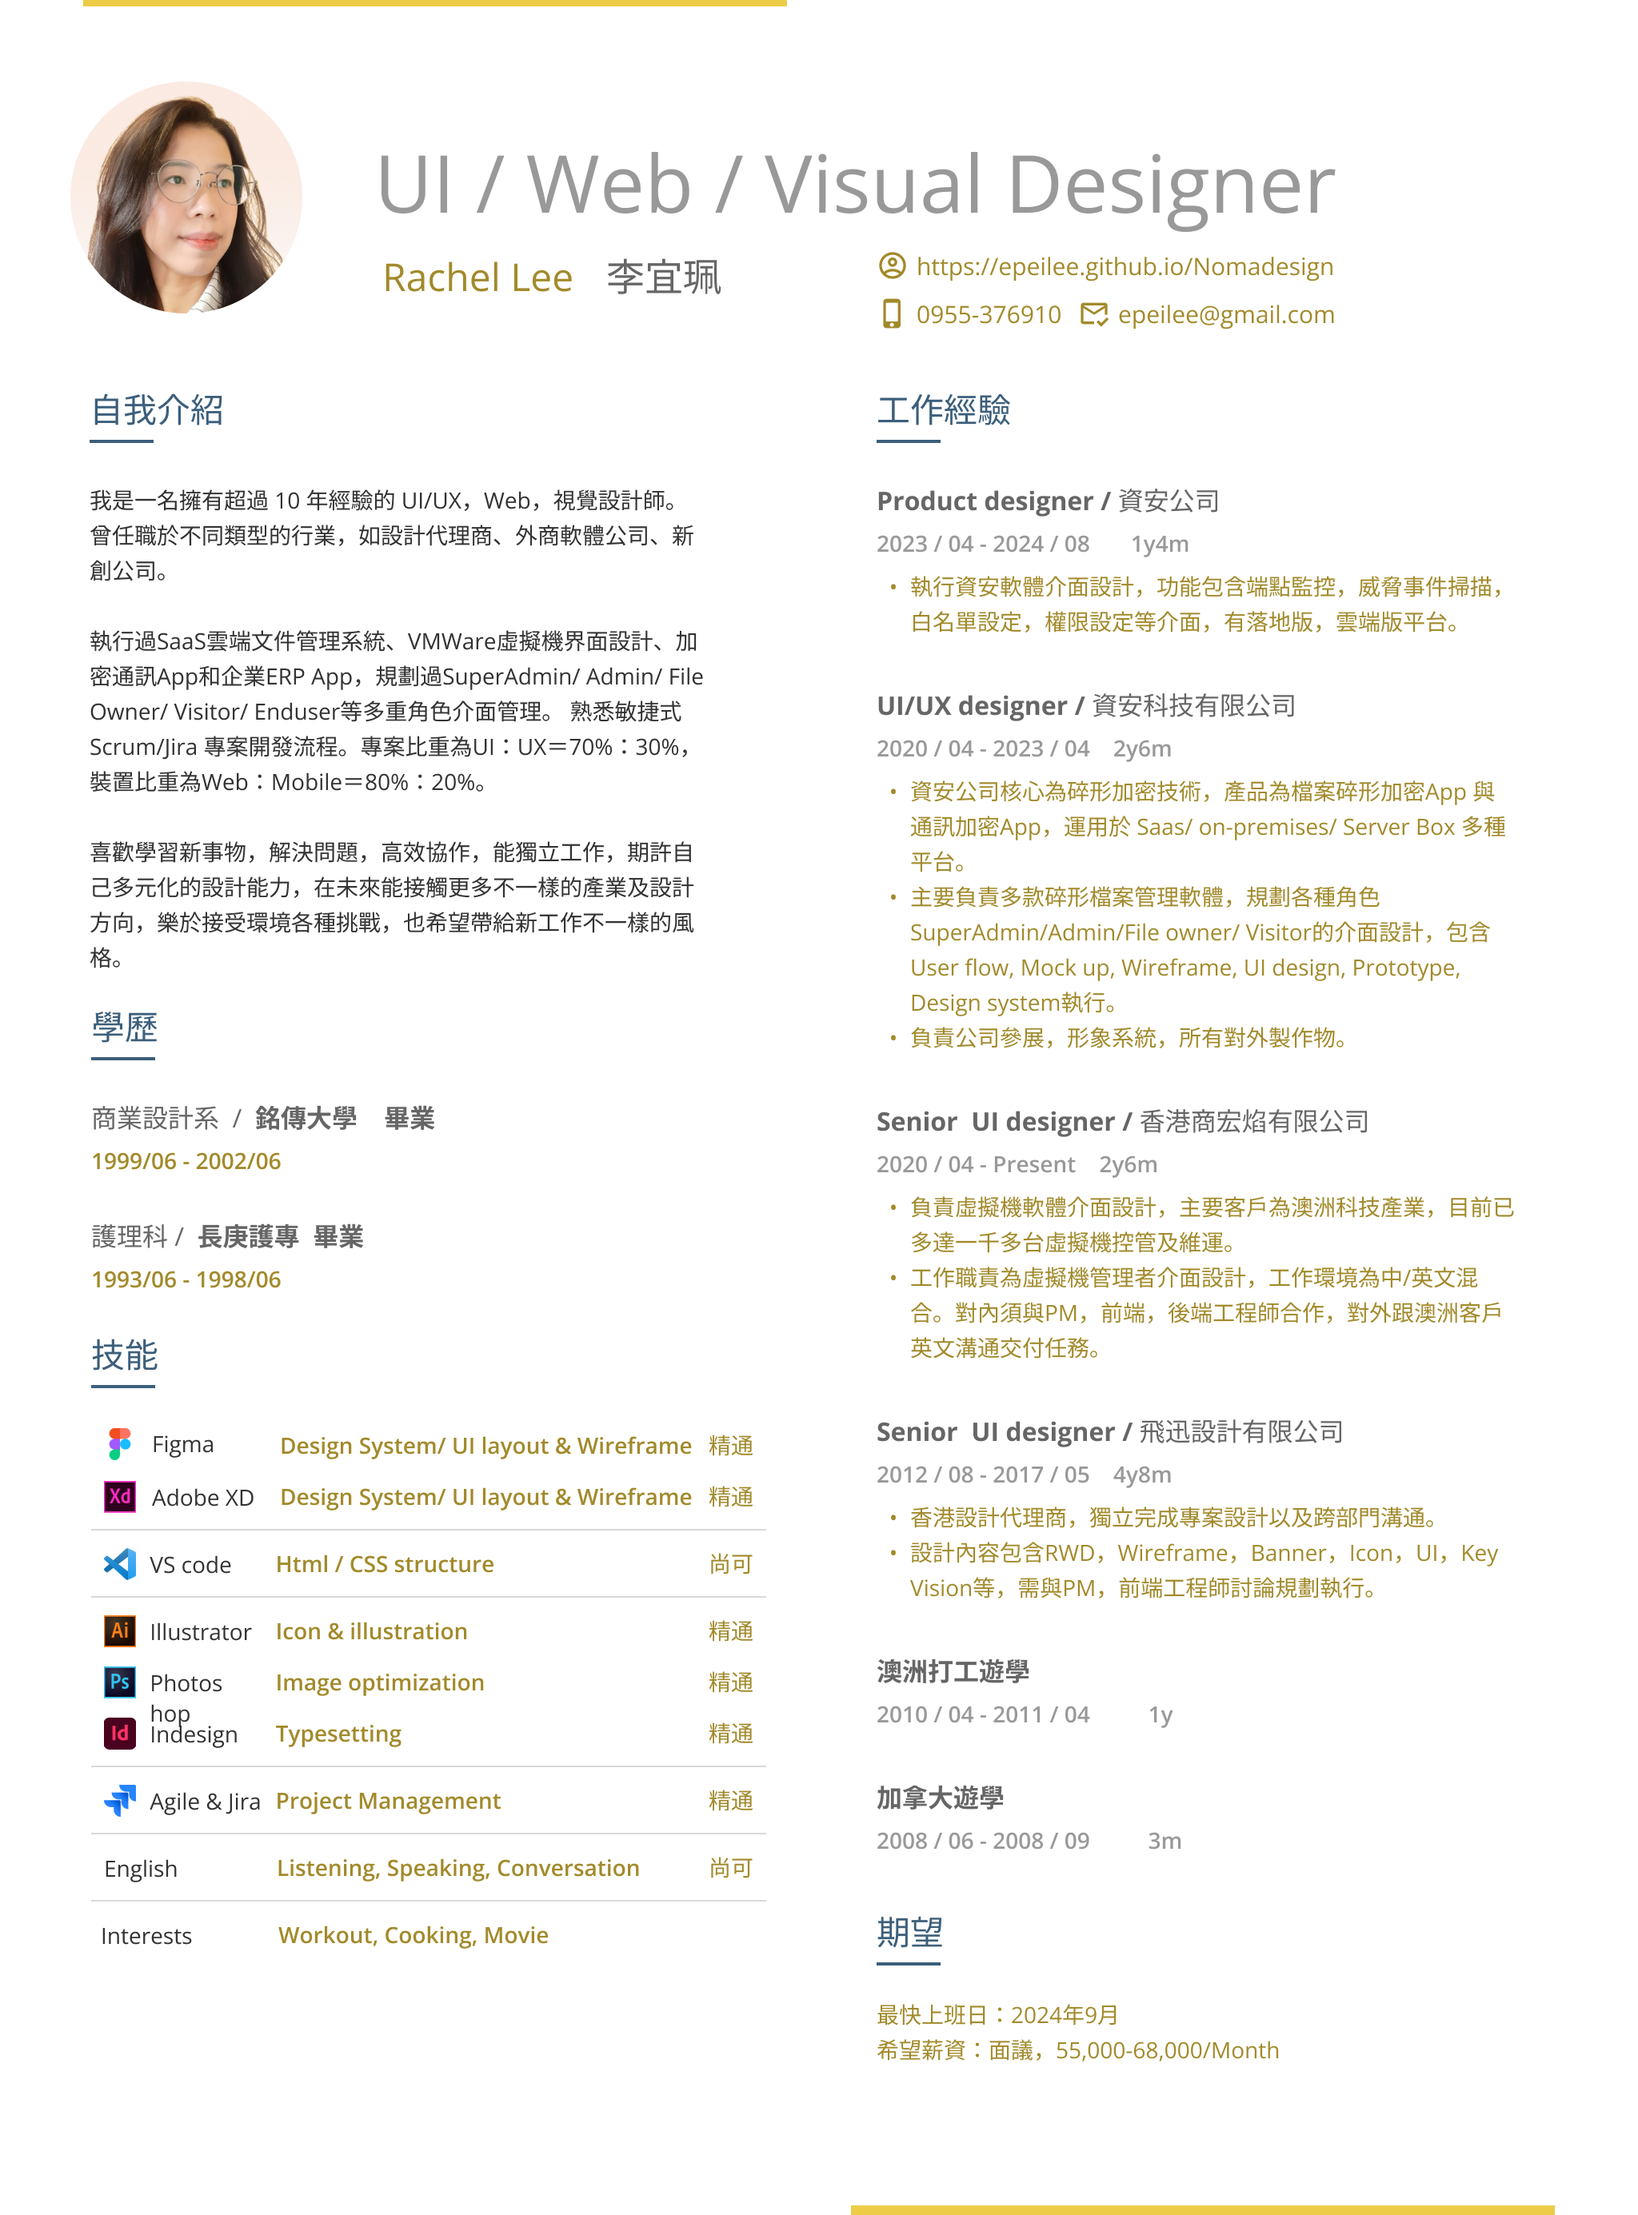
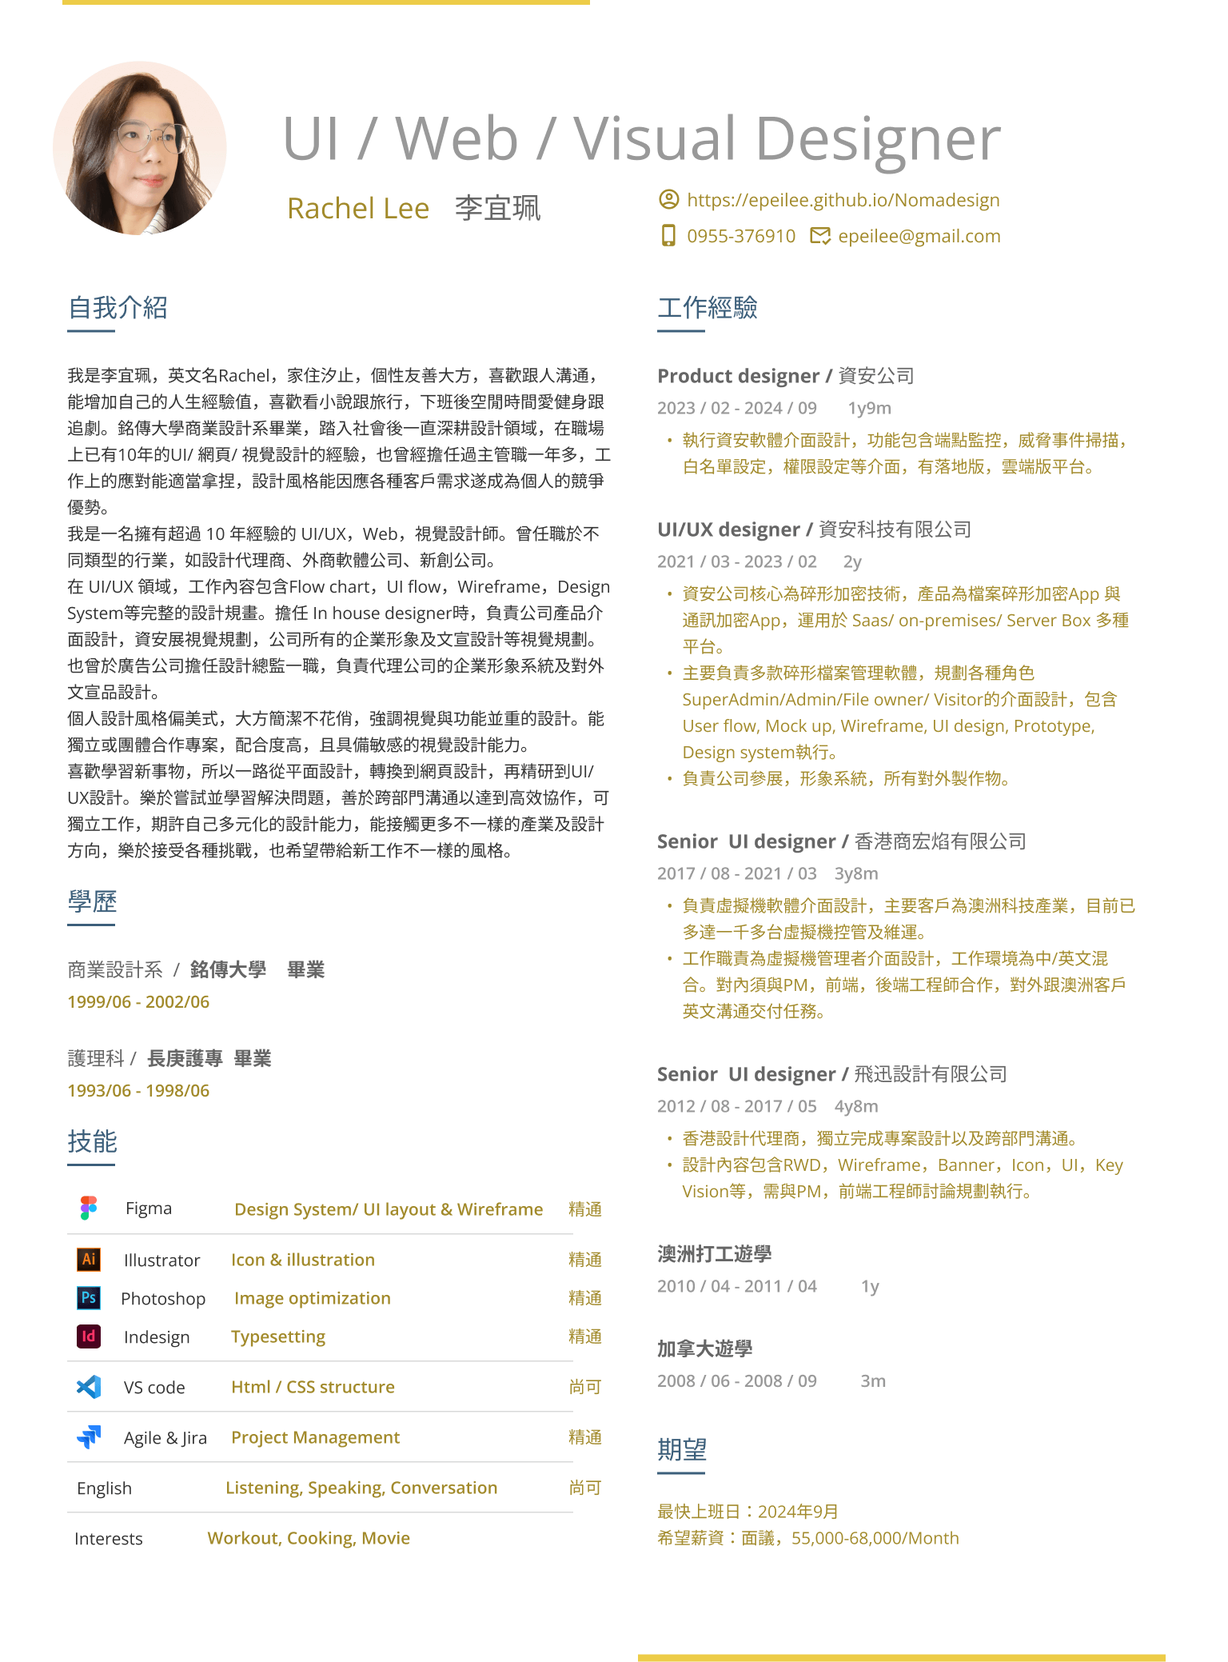
update img

diff --git a/me.html b/me.html
@@ -63,9 +63,13 @@
                                     <p><strong>公司性質：</strong>資安數位科技，針對端點監測與威脅事件進行分析處理</p>
                                 </li>
                                 <li class="d-flex">
-                                    <p><strong>工作內容：</strong>
+                                    <p><strong>工作內容：</strong></p>
                                     <ul>
-                                        <li class="jobDescription">端點偵測軟體介面設計，功能包含端點監控，威脅事件掃描，白名單設定，權限設定等介面，有落地版，雲端版平台。</li>
+                                        <li class="jobDescription">1.端點偵測及威脅事件處理(EDR)軟體介面設計，功能包含端點掃描及即時監控，威脅事件偵測及處置，端點報告分析等。</li>
+                                        <li class="jobDescription">2.規劃與設計: 包含Endpoint Status，Incident Report，Whitelist，Summary Report等。各種權限設定，及落地版，雲端版平台等功能規劃。</li> 
+                                        <li class="jobDescription">3.以 MUI為設計基礎，規劃 Design system，User flow，Prototype，Wireframe，Mockup等設計流程。</li>
+                                        <li class="jobDescription">4.敏捷式開發: 配合RD進行每兩禮拜的階段性開發，有效率的進行跨部門溝通，同步更新設計稿。</li>
+                                        <li class="jobDescription">5.以電腦/平板 RWD規格為主，無mobile裝置。</li>
                                     </ul>
                                 </li>
                             </ul>
@@ -97,10 +101,10 @@
                                     </p>
                                 </li>
                                 <li>
-                                    <p><strong>設計職責：</strong>UI flow，Mockup，UI design，html/css，Design System and Guideline。</p>
+                                    <p class="jobDescription"><strong>設計職責：</strong>UI flow，Mockup，UI design，html/css，Design System and Guideline。</p>
                                 </li>
                                 <li>
-                                    <p><strong>裝置比重：</strong> 電腦平台70%，手機平台30%。</p>
+                                    <p class="jobDescription"><strong>裝置比重：</strong> 電腦平台70%，手機平台30%。</p>
                                 </li>
                             </ul>
 
